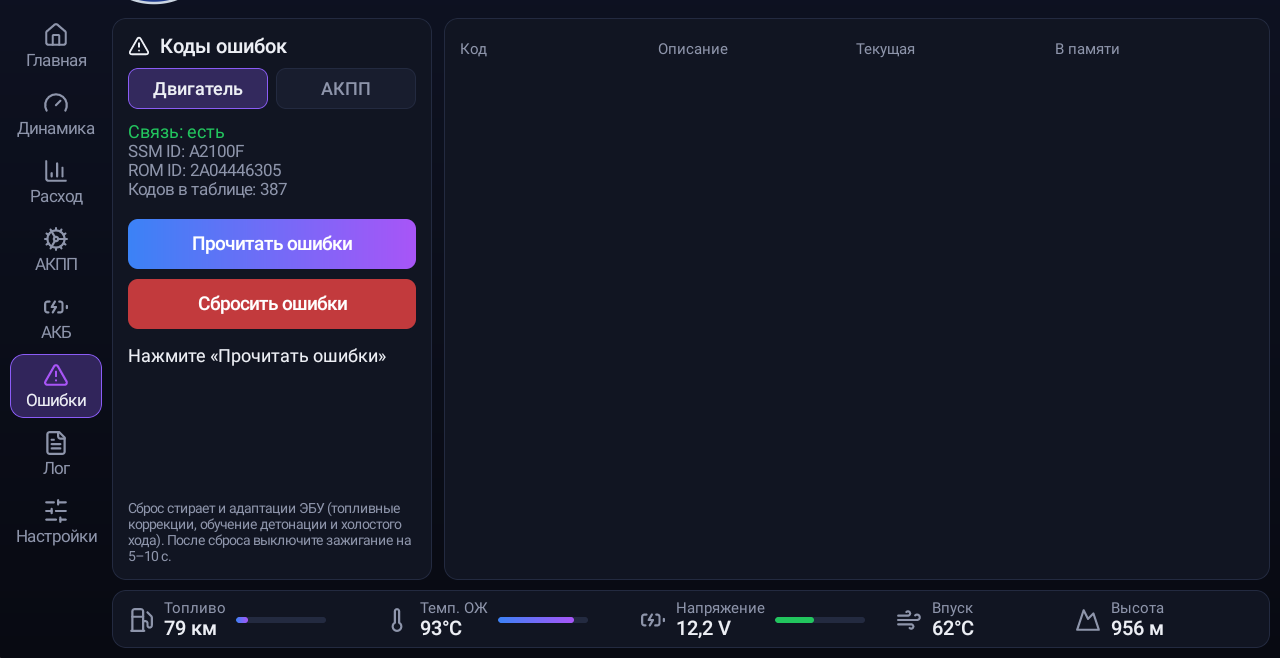
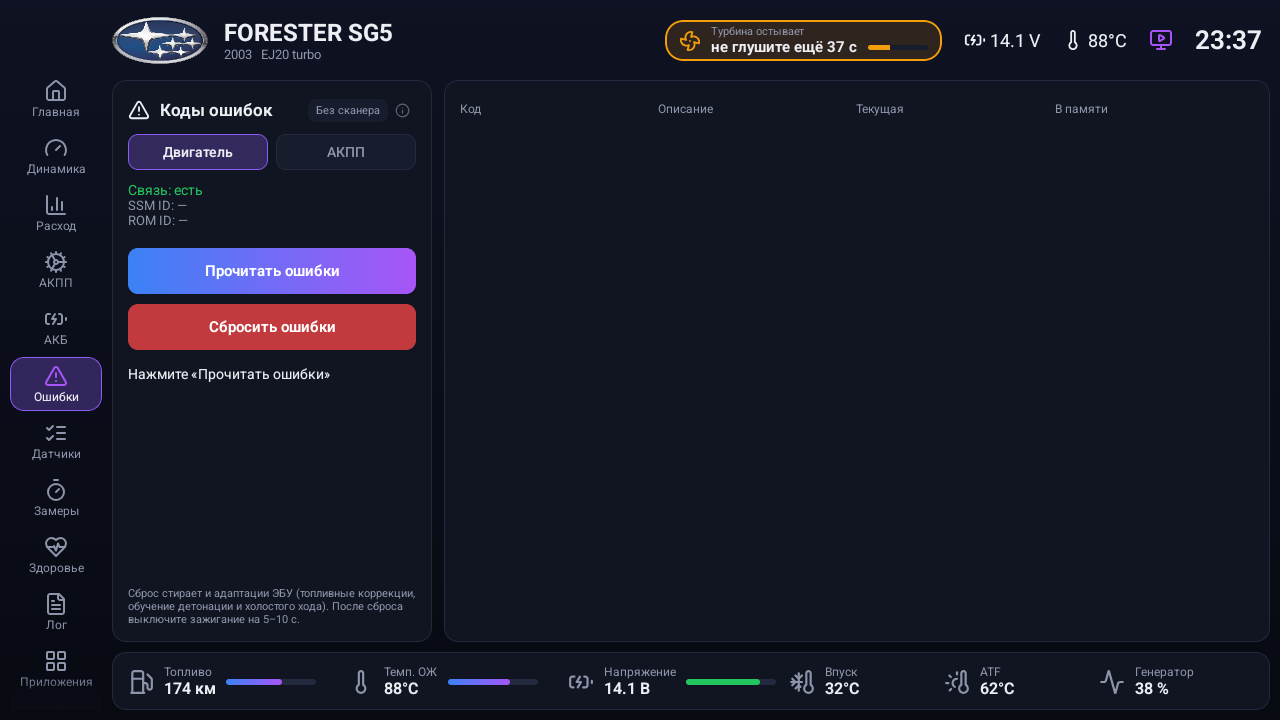
0.9-beta12: drive2 feedback (codes, bottom bar, alerts, voice, cables, own ECU addresses)

diff --git a/README.md b/README.md
@@ -14,9 +14,31 @@
 
 ## 🧪 Бета 0.9 (для тестов)
 
-Отдельная тестовая версия: [Releases](https://github.com/surtaeff/subaru-ssm-dashboard/releases), помечена как pre-release. Ставится поверх 0.9-beta1…beta10, данные сохраняются. Бета подписана другим ключом, чем 0.8: перед установкой удалите 0.8 (поездки и заправки удалятся).
+Отдельная тестовая версия: [Releases](https://github.com/surtaeff/subaru-ssm-dashboard/releases), помечена как pre-release. Ставится поверх 0.9-beta1…beta11, данные сохраняются. С 0.9-beta8 обновляться можно прямо из приложения: Настройки → Основные → «Обновление приложения». Бета подписана другим ключом, чем 0.8: перед установкой удалите 0.8 (поездки и заправки удалятся).
 
-> **[⬇ Скачать 0.9-beta11](https://github.com/surtaeff/subaru-ssm-dashboard/releases/download/v0.9-beta11/subaru-ssm-dashboard-0.9-beta11.apk)** · [что нового](https://github.com/surtaeff/subaru-ssm-dashboard/releases/tag/v0.9-beta11) · [руководство (PDF)](docs/manual-ru.pdf)
+> **[⬇ Скачать 0.9-beta12](https://github.com/surtaeff/subaru-ssm-dashboard/releases/download/v0.9-beta12/subaru-ssm-dashboard-0.9-beta12.apk)** · [что нового](https://github.com/surtaeff/subaru-ssm-dashboard/releases/tag/v0.9-beta12) · [руководство (PDF)](docs/manual-ru.pdf)
+
+### Новое в 0.9-beta12
+
+По отзывам с drive2.
+
+- **Ошибки читаются правильно на всех ЭБУ.** Таблица кодов выбирается по тому, что сообщает сам блок (как во FreeSSM). На старых ЭБУ раньше могли показываться «ошибки в памяти», которых нет и которые не стирались.
+  - Под каждой ошибкой подсказка, что проверить в первую очередь (172 кода двигателя и АКПП).
+  - VIN из ЭБУ и машина по ROM ID (например, JDM Forester XT 2003 AT).
+  - Лампа AT OIL TEMP: горит или мигает и что это значит. Вставленный предохранитель FWD показывается как режим, а не ошибка.
+  - Кнопка «Без сканера»: как прочитать коды АКПП миганием лампы.
+- **Нижняя панель настраивается.** Удерживайте её: до 6 любых показателей, порядок, полоски.
+- **Новые виджеты:** нагрузка, загрузка форсунок, IAM, FBKC, FLKC, целевой наддув, масло, передача, проскальзывание ГДТ, средний расход поездки и другие. «Датчик N» показывает выбранный параметр. Кнопка «Просто» оставляет пять крупных значений.
+- **Оповещения не закрывают экран.** Турботаймер и прогрев в шапке, предупреждения на месте нижней панели на 6 секунд.
+- **Гидротрансформатор:** разблокирован, блокируется, заблокирован или не держит (с предупреждением).
+- **Свои адреса ЭБУ** на «Датчиках», как Custom field в BtSSM. Можно назначить роль FBKC, FLKC, IAM или целевой наддув.
+- **Голос понимает гораздо больше:** маршруты в выбранный навигатор (Яндекс, 2ГИС, Google, Waze, OsmAnd), «найди заправку», «поехали домой», «включи группу Кино», «перемешай», «громкость 15», «какая температура».
+- **Громкость голосом** на FYT магнитолах (Teyes, многие FLY) через сам блок, как ручкой.
+- **Разделение экрана без root** через службу специальных возможностей.
+- **Автозапуск после сна** надёжнее, плюс подсказка про настройки автозапуска Teyes.
+- **Кабели:** KKL на любых чипах FTDI, CH340, PL2303, CP210x с любым ID; OpenPort 1.3 с затёртым ID; разрешение USB запоминается.
+- **Расход:** мусорные значения MAF отбрасываются (были 200+ л/ч на холостых), калибровка не портится от сбоя.
+- 10 новых прошивок с расширенными параметрами; для неизвестной прошивки берутся адреса похожей.
 
 ### Новое в 0.9-beta11
 
